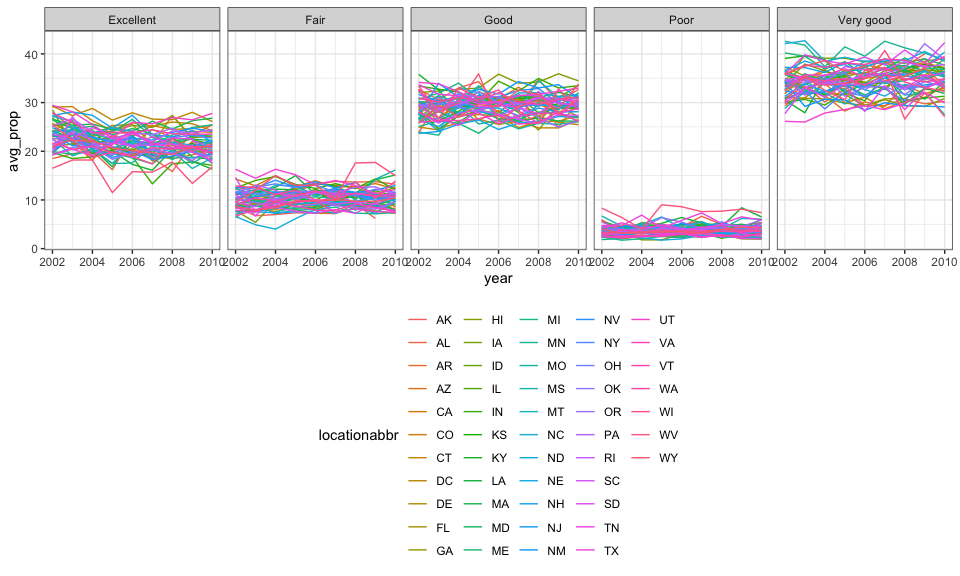
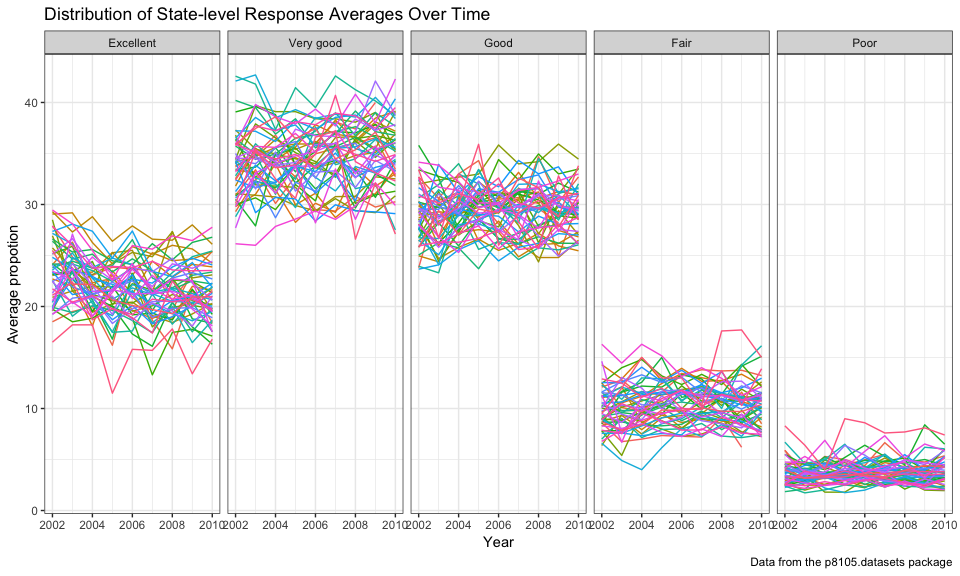
Improvements on Problem 1

diff --git a/p8105_hw3_hx2263.md b/p8105_hw3_hx2263.md
@@ -8,22 +8,21 @@ Tiffany Xi
 Problem 1
 =========
 
--   Load the `BRFSS` data from the p8105.datasets package.
+### Load the `BRFSS` data from the p8105.datasets package.
 
 ``` r
-devtools::install_github("p8105/p8105.datasets")
-library(p8105.datasets)
+brfss = p8105.datasets::brfss_smart2010
 ```
 
--   Data cleaning
+### Data cleaning
 
 ``` r
-brfss = brfss_smart2010 %>% 
+brfss_tidy = brfss %>% 
   janitor::clean_names() %>% 
   filter(topic == "Overall Health") %>% 
-#select(-class, -topic, -question, -sample_size, -(confidence_limit_low:geo_location)) %>% 
-  filter(response == "Excellent"| response == "Very good"| response == "Good"| response == "Fair"| response == "Poor") %>% 
-  mutate(response = as.factor(response))
+  rename(state = locationabbr, location = locationdesc) %>%
+  filter(response %in% c("Excellent", "Very good", "Good", "Fair", "Poor")) %>% 
+  mutate(response = factor(response, levels = c("Excellent", "Very good", "Good", "Fair", "Poor")))
 ```
 
 ### Answers
@@ -31,78 +30,124 @@ brfss = brfss_smart2010 %>%
 1.In 2002, which states were observed at 7 locations?
 
 ``` r
-brfss %>% 
+brfss_tidy %>% 
   filter(year == 2002) %>% 
-  distinct(locationdesc, .keep_all = TRUE) %>% 
-  count(locationabbr) %>% 
+  distinct(location, .keep_all = TRUE) %>% 
+  count(state) %>% 
   filter(n == 7)
 ```
 
     ## # A tibble: 3 x 2
-    ##   locationabbr     n
-    ##   <chr>        <int>
-    ## 1 CT               7
-    ## 2 FL               7
-    ## 3 NC               7
+    ##   state     n
+    ##   <chr> <int>
+    ## 1 CT        7
+    ## 2 FL        7
+    ## 3 NC        7
 
-In 2002, the states which were observed at 7 locations are CT, FL, NC.
+In 2002, the states which were observed at 7 locations are CT (Connecticut), FL (Florida), NC (North Carolina) CT, FL, NC.
 
-2.Make a “spaghetti plot” that shows the number of observations in each state from 2002 to 2010.
+**Comment** Three states were observed exatly at 7 locations in 2002, what a coincidence!
+
+2.Make a "spaghetti plot" that shows the number of observations in each state from 2002 to 2010.
 
 ``` r
-brfss %>% 
-  distinct(year, locationdesc, .keep_all = TRUE) %>% 
+spaghetti = brfss_tidy %>% 
+  distinct(year, location, .keep_all = TRUE) %>% 
+  group_by(year, state) %>%
   filter(year > 2001 & year < 2011) %>% 
-  group_by(year, locationabbr) %>% 
-  summarize(number = n()) %>% 
-  ggplot(aes(x = year, y = number, color = locationabbr)) +
-  geom_point(size = .5, alpha = .5) +
-  geom_line(alpha = .6) +
+  summarize(sum_loco = n()) 
+
+ggplot(data = spaghetti, aes(x = year, y = sum_loco, color = state)) +
+  geom_line(alpha = .7) +
+  geom_text(data = filter(spaghetti, state == "FL"),
+            aes(label = state), show.legend = F) +
+  labs(
+    title = "Number of Observations in Each State (2002~2010)", 
+    x = "Year", 
+    y = "Number of Observations", 
+    legend = "State"
+  ) +
   scale_x_continuous(breaks = c(2002, 2003, 2004, 2005, 2006, 
                                 2007, 2008, 2009, 2010), 
                      labels = c("2002", "2003", "2004", "2005", "2006", 
-                                "2007", "2008", "2009", "2010")) +
+                                "2007", "2008", "2009", "2010"))+
   theme_bw()
 ```
 
 <img src="p8105_hw3_hx2263_files/figure-markdown_github/spaghetti_plot-1.png" width="90%" />
 
+**Comment**: As is obsivously shown in the spaghetti plot above, (Florida) had its largest number of observations in 2007 and 2010, all over 40, much larger than any other states in that given year. The observation number of most states was less than 10 in this time period, and keep fluctuting as year changed.
+
 3.Make a table showing, for the years 2002, 2006, and 2010, the mean and standard deviation of the proportion of “Excellent” responses across locations in NY State.
 
 ``` r
-brfss %>% 
-  filter(locationabbr == "NY" & (year == 2002 | year == 2006 | year == 2010) & response == "Excellent") %>% 
+brfss_tidy %>% 
+  filter(state == "NY" & year %in% c(2002, 2006, 2010) & response == "Excellent") %>% 
   group_by(year) %>% 
-  summarize(mean_excellent_prop = mean(data_value, na.rm = TRUE),
-            sd_excellent_prop = sd(data_value, na.rm = TRUE)) %>% 
+  summarize(mean_excel_prop = mean(data_value, na.rm = TRUE),
+            sd_excel_prop = sd(data_value, na.rm = TRUE)) %>% 
   knitr::kable(digits = 1)
 ```
 
-|  year|  mean\_excellent\_prop|  sd\_excellent\_prop|
-|-----:|----------------------:|--------------------:|
-|  2002|                   24.0|                  4.5|
-|  2006|                   22.5|                  4.0|
-|  2010|                   22.7|                  3.6|
+|  year|  mean\_excel\_prop|  sd\_excel\_prop|
+|-----:|------------------:|----------------:|
+|  2002|               24.0|              4.5|
+|  2006|               22.5|              4.0|
+|  2010|               22.7|              3.6|
+
+**Comment**: As can be seen from the table above, the mean of the proportion of “Excellent” responses across locations in NY State in 2002 is higher than that of 2006 and 2010, which means the overall health condition was better in 2002 than in 2006 and the condition change positively in 2010. The standard deviation ranking of the proportion of “Excellent” responses across locations in NY State in 2002 &gt; 2006 &gt; 2010, indicating that the variability of proportion of “Excellent” responses in 2002 is the highest, and lowest in 2010.
 
 4.For each year and state, compute the average proportion in each response category (taking the average across locations in a state).
 
 ``` r
-avg_prop_rep = brfss %>% 
-  group_by(year, locationabbr, response) %>% 
+avg_prop_rep = brfss_tidy %>% 
+  group_by(year, state, response) %>% 
   summarize(avg_prop = round(mean(data_value, na.rm = TRUE), digits = 2))
+avg_prop_rep
 ```
+
+    ## # A tibble: 2,215 x 4
+    ## # Groups:   year, state [?]
+    ##     year state response  avg_prop
+    ##    <int> <chr> <fct>        <dbl>
+    ##  1  2002 AK    Excellent     27.9
+    ##  2  2002 AK    Very good     33.7
+    ##  3  2002 AK    Good          23.8
+    ##  4  2002 AK    Fair           8.6
+    ##  5  2002 AK    Poor           5.9
+    ##  6  2002 AL    Excellent     18.5
+    ##  7  2002 AL    Very good     30.9
+    ##  8  2002 AL    Good          32.7
+    ##  9  2002 AL    Fair          12.1
+    ## 10  2002 AL    Poor           5.9
+    ## # ... with 2,205 more rows
 
 Make a five-panel plot that shows, for each response category separately, the distribution of these state-level averages over time.
 
 ``` r
-ggplot(data = avg_prop_rep, aes(x = year, y = avg_prop, color = locationabbr)) +
-    facet_grid( ~ response) +
-    geom_line() +
-    theme_bw() +
-    theme(legend.position = "bottom")
+avg_prop_rep %>% 
+  ggplot(aes(x = year, y = avg_prop, color = state)) +
+  facet_grid( ~ response) +
+  geom_line() +
+  labs(
+    y = "Average propotion",
+    x = "Year",
+    title = "Distribution of State-level Response Averages Over Time",
+    caption = "Data from the p8105.datasets package"
+  ) +
+  theme_bw() +
+  theme(legend.position = "none")
 ```
 
 <img src="p8105_hw3_hx2263_files/figure-markdown_github/five_panel-1.png" width="90%" />
+
+**Comment**:
+
+It is obvious that "Very good" response takes largest percent of all response, while "Poor" response accounts for lowest percentage of five response. The proportion ranking are like: "Very good" &gt; "Good" &gt; "Excellent" &gt; "Fair" &gt; "Poor". So, the overall health of citizens in selected counties is good in the time period of 2002~2010.
+
+The proportion data of every state are kind of centralizated in a centrain value, which means that the overall health condition in each states differs in a small extent.
+
+The fluctuation across year of response "Poor" is relatively small compared with other four responses.
 
 ``` r
 excel_rep = avg_prop_rep %>% filter(response == "Excellent")
@@ -112,57 +157,20 @@ fair_rep = avg_prop_rep %>% filter(response == "Fair")
 poor_rep = avg_prop_rep %>% filter(response == "Poor")
 
 panel_plot = function(df){
-  ggplot(data = df, aes(x = year, y = avg_prop, color = locationabbr)) +
+  ggplot(data = df, aes(x = year, y = avg_prop, color = state)) +
     geom_line() +
     theme(legend.position = "bottom")
 }
 
-panel_plot(excel_rep)
+panel_plot(excel_rep)/panel_plot(vg_rep)/panel_plot(good_rep)/panel_plot(fair_rep)/panel_plot(poor_rep)
 ```
 
 <img src="p8105_hw3_hx2263_files/figure-markdown_github/five_plot-1.png" width="90%" />
 
-``` r
-panel_plot(vg_rep)
-```
-
-<img src="p8105_hw3_hx2263_files/figure-markdown_github/five_plot-2.png" width="90%" />
-
-``` r
-panel_plot(good_rep)
-```
-
-<img src="p8105_hw3_hx2263_files/figure-markdown_github/five_plot-3.png" width="90%" />
-
-``` r
-panel_plot(fair_rep)
-```
-
-<img src="p8105_hw3_hx2263_files/figure-markdown_github/five_plot-4.png" width="90%" />
-
-``` r
-panel_plot(poor_rep)  
-```
-
-<img src="p8105_hw3_hx2263_files/figure-markdown_github/five_plot-5.png" width="90%" />
-
-``` r
-ggplot(data = avg_prop_rep, aes(x = year, y = avg_prop, color = locationabbr)) +
-    facet_grid( ~ response) +
-    geom_point(alpha = .5) +
-    geom_smooth(se = FALSE) +
-    theme_bw() +
-    theme(legend.position = "bottom")
-```
-
-    ## `geom_smooth()` using method = 'loess' and formula 'y ~ x'
-
-<img src="p8105_hw3_hx2263_files/figure-markdown_github/什么鬼-1.png" width="90%" />
-
 Problem 2
 =========
 
--   Load the `instacart` data from the p8105.datasets package and take a look.
+### Load the `instacart` data from the p8105.datasets package and take a look.
 
 ``` r
 instacart = p8105.datasets::instacart
@@ -183,13 +191,59 @@ head(instacart)
     ## #   product_name <chr>, aisle_id <int>, department_id <int>, aisle <chr>,
     ## #   department <chr>
 
+``` r
+instacart %>% 
+  count(department)
+```
+
+    ## # A tibble: 21 x 2
+    ##    department           n
+    ##    <chr>            <int>
+    ##  1 alcohol           5598
+    ##  2 babies           14941
+    ##  3 bakery           48394
+    ##  4 beverages       114046
+    ##  5 breakfast        29500
+    ##  6 bulk              1359
+    ##  7 canned goods     46799
+    ##  8 dairy eggs      217051
+    ##  9 deli             44291
+    ## 10 dry goods pasta  38713
+    ## # ... with 11 more rows
+
+``` r
+instacart %>% 
+  count(aisle)
+```
+
+    ## # A tibble: 134 x 2
+    ##    aisle                      n
+    ##    <chr>                  <int>
+    ##  1 air fresheners candles  1067
+    ##  2 asian foods             7007
+    ##  3 baby accessories         306
+    ##  4 baby bath body care      328
+    ##  5 baby food formula      13198
+    ##  6 bakery desserts         1501
+    ##  7 baking ingredients     13088
+    ##  8 baking supplies decor   1094
+    ##  9 beauty                   287
+    ## 10 beers coolers           1839
+    ## # ... with 124 more rows
+
 ### Description
 
 The `instacart` dataset has 15 columns and 1384617 rows, which means it contains 1384617 observations and 15 variables. Each row in the dataset is a product information from an order. The structure of this dataset is *Tabular Data*. As far as I am concerned, this dataset describes the orders and reorder detail from customer `user_id` though Instacart app.
 
 The key variables are `order_id`, `product_id` and `product_name`. We can see the user `user_id` bought `product_id` which is `product_name` belonging to `department` and located in `aisle`. We can also know how frequent one customer use this app to do grocery shopping according to `days_since_prior_order` and `order_number`.
 
-For example, the `user_id`1 made `order_id`1187899. He/she bought 11 items in `order_number`11 `days_since_prior_order`14 days after his/her last shopping, among which the `add_to_cart_order`9 was the first time order, other 10 items were reorders. `product_id`196 is Soda in `aisle`soft drinks `aisle_id`77 in `department`beverages which id is 7.
+For example,
+
+|  order\_id|  product\_id|  add\_to\_cart\_order|  reordered|  user\_id| eval\_set |  order\_number|  order\_dow|  order\_hour\_of\_day|  days\_since\_prior\_order| product\_name    |  aisle\_id|  department\_id| aisle  | department |
+|----------:|------------:|---------------------:|----------:|---------:|:----------|--------------:|-----------:|---------------------:|--------------------------:|:-----------------|----------:|---------------:|:-------|:-----------|
+|          1|        49302|                     1|          1|    112108| train     |              4|           4|                    10|                          9| Bulgarian Yogurt |        120|              16| yogurt | dairy eggs |
+
+the `user_id`1 made `order_id`1187899. He/she bought 11 items in `order_number`11 `days_since_prior_order`14 days after his/her last shopping, among which the `add_to_cart_order`9 was the first time order, other 10 items were reorders. `product_id`196 is Soda in `aisle`soft drinks `aisle_id`77 in `department`beverages which id is 7.
 
 ### Answers
 
@@ -197,7 +251,9 @@ For example, the `user_id`1 made `order_id`1187899. He/she bought 11 items in `o
 
 There are 134 aisles.
 
-fresh fruits, fresh vegetables, packaged vegetables fruits aisle are the top 3 aisles which most items ordered from. Among those, fresh vegetables aisle ranks first.
+fresh fruits, fresh vegetables, packaged vegetables fruits aisle are the top 3 aisles which most items ordered from.
+
+Among those, fresh vegetables aisle ranks first.
 
 2.Make a plot that shows the number of items ordered in each aisle. Order aisles sensibly, and organize your plot so others can read it.
 
